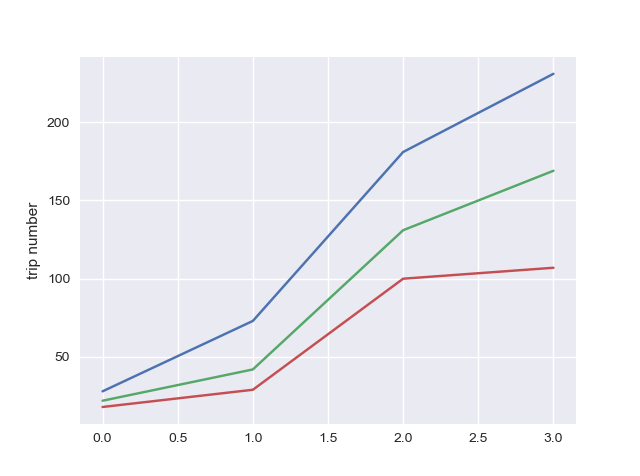
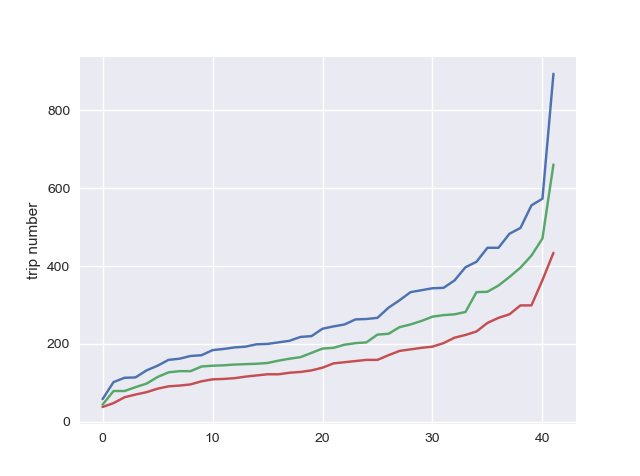
step 3 almost

diff --git a/step3.py b/step3.py
@@ -1,3 +1,10 @@
+import numpy as np
+import pandas as pd
+from scipy import stats, integrate
+import matplotlib.pyplot as plt
+import seaborn as sns
+sns.set(color_codes=True)
+
 import mysql.connector
 from mysql.connector import Error
 import pandas as pd
@@ -13,7 +20,31 @@ pd.set_option('display.width',1000)
 df_origindata = pd.DataFrame()
 df_aggregateddata = pd.DataFrame(columns=['user_id', 'lat', 'lon', 'record_time'])
 df_bindata = pd.DataFrame()
+#global matrix(2d array)
+# matrix to store the points in trips, for heatmap plot
+# N = 1
+matrix_grid_1 = []
+for i in range(0, 171):
+    row = []
+    for j in range(0, 171):
+        row.append(0)
+    matrix_grid_1.append(row)
 
+# N = 3
+matrix_grid_3 = []
+for i in range(0, 171):
+    row = []
+    for j in range(0, 171):
+        row.append(0)
+    matrix_grid_3.append(row)
+
+# N = 5
+matrix_grid_5 = []
+for i in range(0, 171):
+    row = []
+    for j in range(0, 171):
+        row.append(0)
+    matrix_grid_5.append(row)
 
 ### get data
 def connectdatabase():
@@ -42,9 +73,9 @@ def get_data(cursor):
     cursor.execute(sql_gpsdata_filter50_saskatoon)
     global df_origindata
     # df_origindata = df_origindata.append(cursor.fetchmany(127945))
-    df_origindata = df_origindata.append(cursor.fetchmany(9999))
+    # df_origindata = df_origindata.append(cursor.fetchmany(9999))
     # df_origindata = df_origindata.append(cursor.fetchmany(999))
-    # df_origindata = df_origindata.append(cursor.fetchall())
+    df_origindata = df_origindata.append(cursor.fetchall())
     df_origindata.columns = ['user_id', 'lat', 'lon', 'provider', 'accu', 'record_time', 'date']
 
 
@@ -204,6 +235,10 @@ def convert_coord(df):
     operationalization for N = 1
 '''
 def define_trip(df_bin):
+    # claim global var
+    global matrix_grid_1
+
+
     list_triptable_1 = []   #a list to store the trip table, will be convert into dataframe later
     #1. get same id
     for id in df_bin['user_id'].unique():
@@ -220,11 +255,13 @@ def define_trip(df_bin):
             #
             # print(row['user_id'], row['xBin'], row['yBin'], row['record_time'])
             if(row['xBin']==x_pre and row['yBin']==y_pre):
-                if(num_cells == 0):
+                if(num_cells == 0):    #trip has not started
                     time_start = row['record_time']
-                else:
+                else:                  #trip ends
                     #1. calculate duration
                     duration = (time_end - time_start).total_seconds()/60
+                    if (x_pre <= 170 and y_pre <= 170):
+                        matrix_grid_1[int(x_pre)][int(y_pre)] = matrix_grid_1[int(x_pre)][int(y_pre)] + 1
                     #2. store one trip record
                     list_onetrip = [row['user_id'], num_cells, duration]
                     #
@@ -233,13 +270,15 @@ def define_trip(df_bin):
                     #3. reset
                     num_cells = 0
                     time_start = row['record_time']
-            else:
+            else:                      #on the trip
                 time_end = row['record_time']
                 num_cells = num_cells + 1
+                if(x_pre <= 170 and y_pre <= 170):
+                    matrix_grid_1[int(x_pre)][int(y_pre)] = matrix_grid_1[int(x_pre)][int(y_pre)] + 1
                 x_pre = row['xBin']
                 y_pre = row['yBin']
 
-        print(list_triptable_1)
+        # print(list_triptable_1)
     # print(list_triptable)
     return list_triptable_1
     # print('    ')
@@ -357,6 +396,21 @@ def define_trip_5(df_bin):
     # print(df_triptable_1)
     #
 
+def convert2distance(count_cells):
+    return count_cells * 100
+
+
+#### function: from triptable get a dataframe for trip number of each participant
+def get_tripnumber(df_triptable):
+    list_counttrip = []
+    for id in df_triptable['user_id'].unique():
+        df_one_id = df_triptable.loc[df_triptable['user_id'] == id]
+        list_oneid = [id, len(df_one_id)]
+        list_counttrip.append(list_oneid)
+    df_counttrip = pd.DataFrame(data=list_counttrip, columns=['user_id', 'count_trip'])
+    #
+    df_counttrip.sort_values(by=['count_trip'], inplace=True)
+    return df_counttrip
 
 ### main function
 if __name__ == '__main__':
@@ -373,23 +427,109 @@ if __name__ == '__main__':
     df_bindata = convert_coord(df_aggregateddata)
     print("Aggregation Finished!!!")
 # test
-    print("_____________df_bindata_________________")
-    print(df_bindata)
+#     print("_____________df_bindata_________________")
+#     print(df_bindata)
 
 #  operationalization
 
 # #### N = 1
-#     df_trip_1 = pd.DataFrame(data=define_trip(df_bindata), columns=['user_id', 'trip_num', 'duration'])
-#     print('_________________________________trip table N=1___________________________________')
-#     print(df_trip_1)
+    df_trip_1 = pd.DataFrame(data=define_trip(df_bindata), columns=['user_id', 'trip_num', 'duration'])
+    # print('_________________________________trip table N=1___________________________________')
+    # print(df_trip_1)
+    print('_________________________matrix N = 1_____________________________________________')
+    print(matrix_grid_1)
 
 
-    # #N = 3
+    #N = 3
     # print('             ')
-    # df_trip_3 = pd.DataFrame(data=define_trip_3(df_bindata), columns=['user_id', 'trip_num', 'duration'])
+    df_trip_3 = pd.DataFrame(data=define_trip_3(df_bindata), columns=['user_id', 'trip_num', 'duration'])
     # print(df_trip_3)
     #
-    # #N = 5
+    #N = 5
     # print('             ')
-    # df_trip_5 = pd.DataFrame(data=define_trip_5(df_bindata), columns=['user_id', 'trip_num', 'duration'])
+    df_trip_5 = pd.DataFrame(data=define_trip_5(df_bindata), columns=['user_id', 'trip_num', 'duration'])
     # print(df_trip_5)
+
+#### step 3 PlOT
+#### 1. plot curve
+
+
+#### 1.1 curve for trip num
+#### N = 1
+    df_counttrip_1 = get_tripnumber(df_trip_1)
+    # print(df_counttrip_1)
+
+#### N = 3
+    df_counttrip_3 = get_tripnumber(df_trip_3)
+    # print(df_counttrip_3)
+
+#### N = 5
+    df_counttrip_5 = get_tripnumber(df_trip_5)
+    # print(df_counttrip_5)
+
+    #plot
+    # N = 1
+    plt.plot(df_counttrip_1['count_trip'].values)
+    plt.ylabel('trip number')
+    # plt.show()
+    # N = 3
+    plt.plot(df_counttrip_3['count_trip'].values)
+    plt.ylabel('trip number')
+    # plt.show()
+    # N =5
+    plt.plot(df_counttrip_5['count_trip'].values)
+    plt.ylabel('trip number')
+    # show plot
+    plt.yscale('log')
+    plt.show()
+
+#### 1.2 curve for trip length
+    # N = 1
+    list_distance_1 = list(map(convert2distance, df_trip_1['trip_num'].values))
+    list_distance_1.sort()
+    plt.plot(list_distance_1)
+    plt.ylabel('trip length(over participant-trip)')
+
+    # N = 3
+    list_distance_3 = list(map(convert2distance, df_trip_3['trip_num'].values))
+    list_distance_3.sort()
+    plt.plot(list_distance_3)
+
+    # N = 5
+    list_distance_5 = list(map(convert2distance, df_trip_5['trip_num'].values))
+    list_distance_5.sort()
+    plt.plot(list_distance_5)
+
+    # show plot
+    plt.yscale('log')
+    plt.show()
+
+#### 1.3 curve for duration
+    # N = 1
+    list_duration_1 = df_trip_1['duration'].values
+    list_duration_1.sort()
+    plt.plot(list_duration_1)
+
+    # N = 3
+    list_duration_3 = df_trip_3['duration'].values
+    list_duration_3.sort()
+    plt.plot(list_duration_3)
+
+    # N = 5
+    list_duration_5 = df_trip_5['duration'].values
+    list_duration_5.sort()
+    plt.plot(list_duration_5)
+
+    # show plot
+    plt.yscale('log')
+    plt.show()
+
+
+#### 2. heatmap for trips
+#### N = 1
+    img_1 = plt.imshow(matrix_grid_1, cmap='hot')
+    plt.colorbar(img_1, orientation='horizontal')
+    plt.show()
+
+
+
